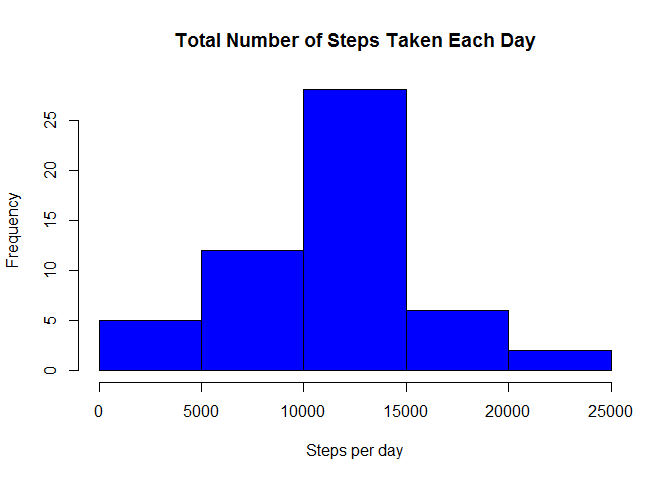
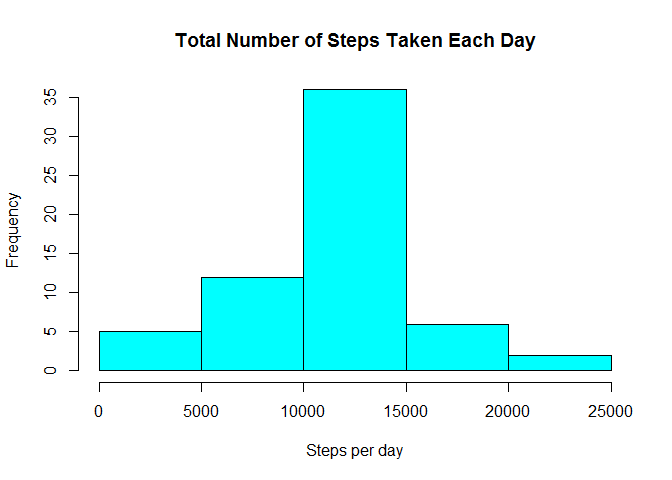
- Imput missing values

diff --git a/PA1_template.html b/PA1_template.html
@@ -135,12 +135,16 @@ data.sum.interval[which(data.sum.interval$mean == max(data.sum.interval$mean)), 
 </div>
 <div id="imputing-missing-values" class="section level2">
 <h2>Imputing missing values</h2>
-<p>Determine impact of missing values</p>
+<p>Determine impact of missing values. We then imput the missing values by using the mean of non-NA observations.</p>
 <pre class="r"><code>## Calculate the toal number of missing values in the dataset
 sum(is.na(data$steps))</code></pre>
 <pre><code>## [1] 2304</code></pre>
-<pre class="r"><code>## Create a new dataset that is equal to the original dataset but with the missings data filled in
+<pre class="r"><code>## Determine value to use for missing values (mean for non-NA)
+na_fill_value &lt;- mean(data$steps, na.rm = TRUE)
+
+## Create a new dataset that is equal to the original dataset but with the missings data filled in
 data.nona &lt;- data
+data.nona[is.na(data.nona)] &lt;- na_fill_value
 
 ## Group data by date
 data.nona.group.date &lt;- group_by(data.nona, date)
@@ -149,14 +153,14 @@ data.nona.group.date &lt;- group_by(data.nona, date)
 data.nona.sum.date &lt;- summarize(data.nona.group.date, steps = sum(steps))
 
 ## Display histogram
-hist(data.nona.sum.date$steps, col = &quot;blue&quot;, xlab = &quot;Steps per day&quot;, main = &quot;Total Number of Steps Taken Each Day&quot;)</code></pre>
[1 lines of base64/hex data omitted]
+hist(data.nona.sum.date$steps, col = &quot;cyan&quot;, xlab = &quot;Steps per day&quot;, main = &quot;Total Number of Steps Taken Each Day&quot;)</code></pre>
[1 lines of base64/hex data omitted]
 <pre class="r"><code>## Report mean and median # of steps
 summarize(data.nona.sum.date, mean = mean(steps, na.rm = TRUE), median = median(steps, na.rm = TRUE))</code></pre>
 <pre><code>## Source: local data frame [1 x 2]
 ## 
-##       mean median
-## 1 10766.19  10765</code></pre>
+##       mean   median
+## 1 10766.19 10766.19</code></pre>
 </div>
 <div id="are-there-differences-in-activity-patterns-between-weekdays-and-weekends" class="section level2">
 <h2>Are there differences in activity patterns between weekdays and weekends?</h2>

diff --git a/PA1_template.md b/PA1_template.md
@@ -108,7 +108,7 @@ data.sum.interval[which(data.sum.interval$mean == max(data.sum.interval$mean)), 
 
 ## Imputing missing values
 
-Determine impact of missing values
+Determine impact of missing values. We then imput the missing values by using the mean of non-NA observations.
 
 ```r
 ## Calculate the toal number of missing values in the dataset
@@ -120,8 +120,12 @@ sum(is.na(data$steps))
 ```
 
 ```r
+## Determine value to use for missing values (mean for non-NA)
+na_fill_value <- mean(data$steps, na.rm = TRUE)
+
 ## Create a new dataset that is equal to the original dataset but with the missings data filled in
 data.nona <- data
+data.nona[is.na(data.nona)] <- na_fill_value
 
 ## Group data by date
 data.nona.group.date <- group_by(data.nona, date)
@@ -130,7 +134,7 @@ data.nona.group.date <- group_by(data.nona, date)
 data.nona.sum.date <- summarize(data.nona.group.date, steps = sum(steps))
 
 ## Display histogram
-hist(data.nona.sum.date$steps, col = "blue", xlab = "Steps per day", main = "Total Number of Steps Taken Each Day")
+hist(data.nona.sum.date$steps, col = "cyan", xlab = "Steps per day", main = "Total Number of Steps Taken Each Day")
 ```
 
 ![](PA1_template_files/figure-html/unnamed-chunk-5-1.png) 
@@ -143,8 +147,8 @@ summarize(data.nona.sum.date, mean = mean(steps, na.rm = TRUE), median = median(
 ```
 ## Source: local data frame [1 x 2]
 ## 
-##       mean median
-## 1 10766.19  10765
+##       mean   median
+## 1 10766.19 10766.19
 ```
 
 
